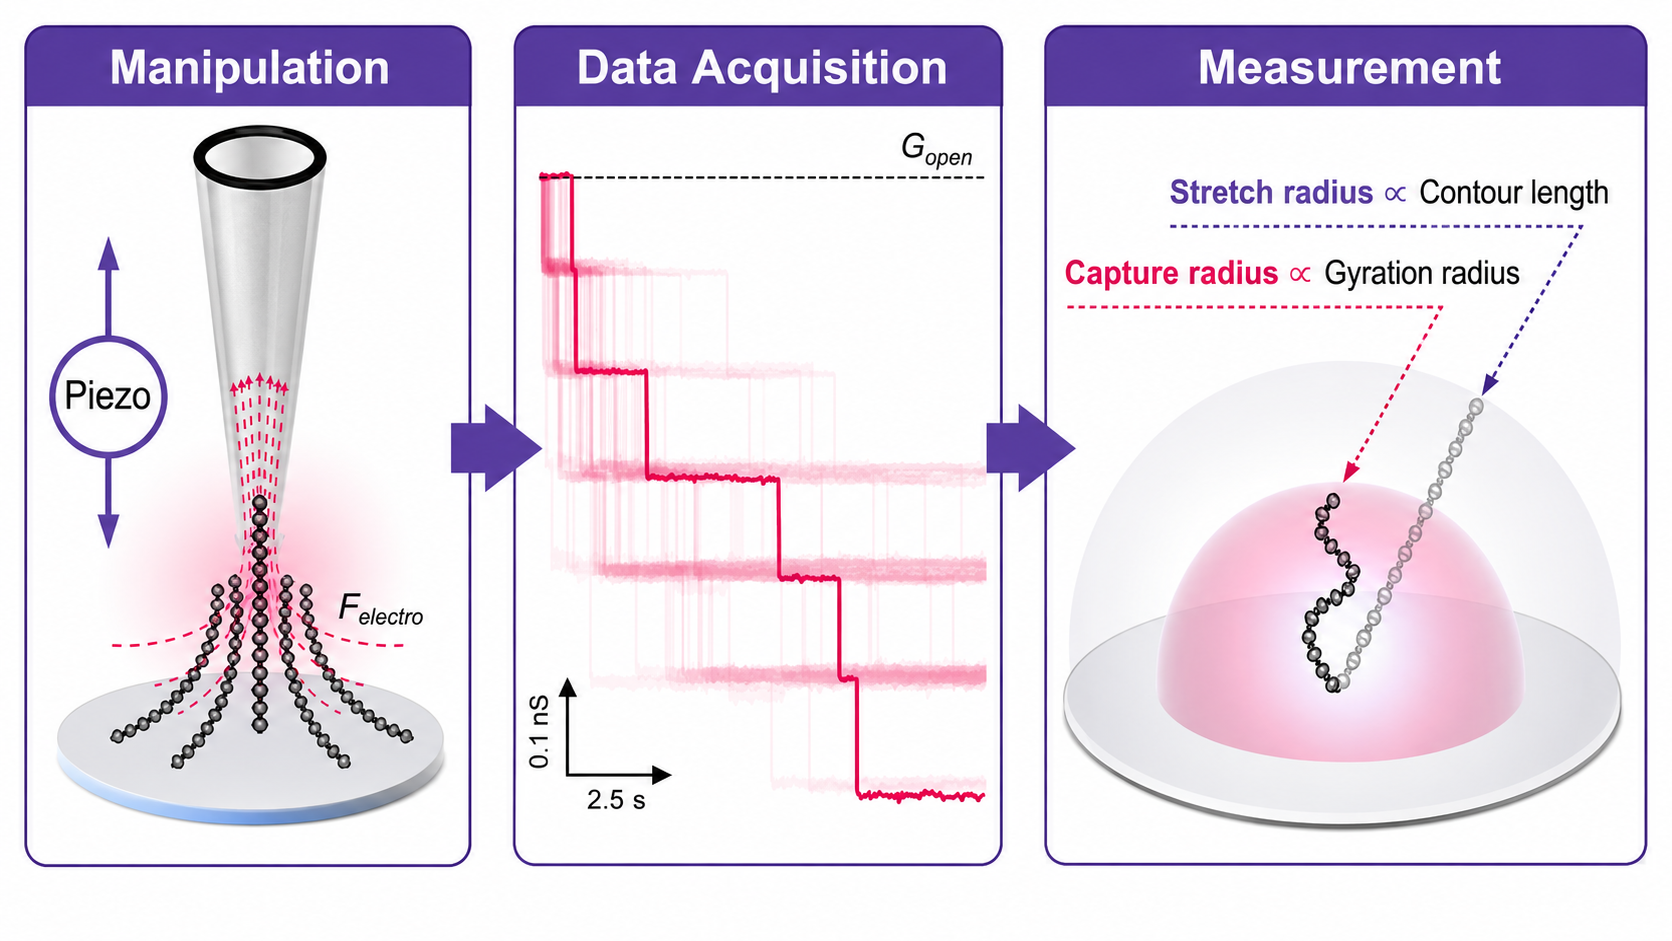
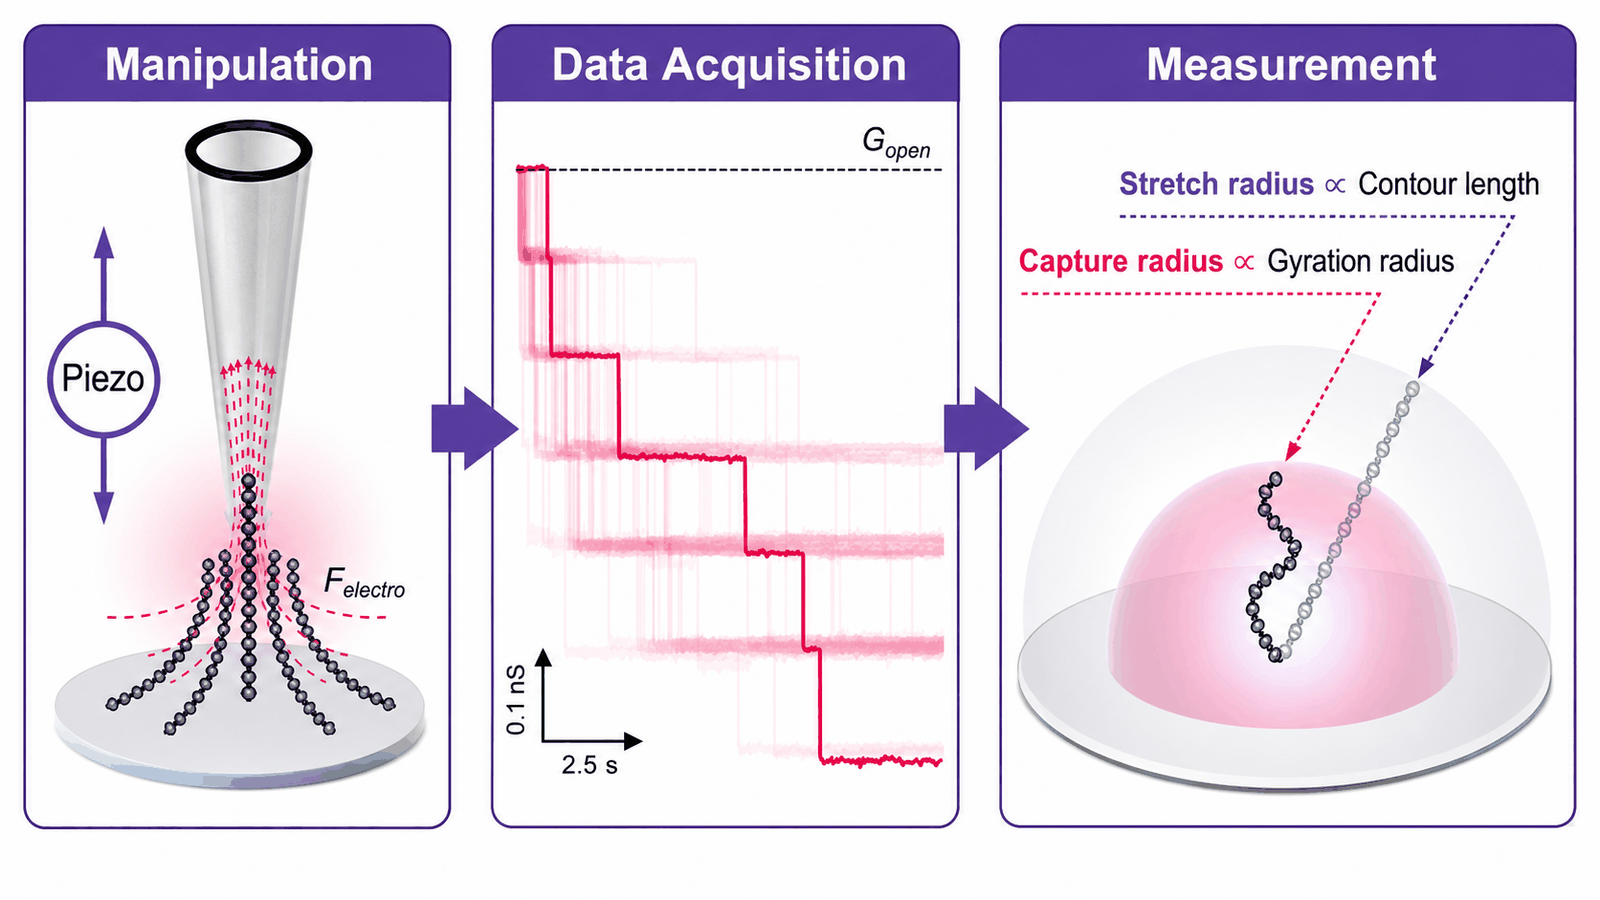
Optimize publication thumbnails

diff --git a/publications.html b/publications.html
@@ -53,7 +53,7 @@
           <li>Yun-Long Chen#, Chen-Chen Zheng#, Yan Zhang*, Zhi-Jie Tan*, and <strong>Xing-Hua Zhang*</strong>, "Multivalent cations stabilize DNA duplexes beyond charge neutralization", <em>Chemical Science</em>, <a class="text-link" href="https://doi.org/10.1039/D6SC03808E">https://doi.org/10.1039/D6SC03808E</a>
             <img src="assets/minor-groove-clamping-thumbnail-20260528.png?v=20260528-3papers" alt="Multivalent cations stabilize DNA duplexes beyond charge neutralization" style="width:560px;max-width:100%;height:auto;display:block;margin:8px 0;"></li>
           <li>Chen Zhang#, Hai-Long Dong#, Jia-Hao Zhang, Liang Dai, Yan Zhang*, Zhi-Jie Tan*, and <strong>Xing-Hua Zhang*</strong>, "Local cation-clamping distorts and softens RNA duplex", <em>Communications Biology</em>, 9:308. <a class="text-link" href="papers/2026-communications-biology.pdf">Download PDF</a>
-            <img src="assets/local-cation-clamping-thumbnail-20260528.png?v=20260528-3papers" alt="Local cation-clamping distorts and softens RNA duplex" style="width:560px;max-width:100%;height:auto;display:block;margin:8px 0;"></li>
+            <img src="assets/local-cation-clamping-thumbnail-20260528.png?v=20260907-optimized" alt="Local cation-clamping distorts and softens RNA duplex" style="width:560px;max-width:100%;height:auto;display:block;margin:8px 0;"></li>
           <li>Chen-Chen Zheng#, Yun-Long Chen#, Hai-Long Dong, Liang Dai, <strong>Xing-Hua Zhang*</strong>, Zhi-Jie Tan*, "Low-polar solvent strikingly stiffens double-stranded RNA and reverses its twist-stretch coupling", <em>Biophysical Journal</em>, 125(4): 982-994 (2026). <a class="text-link" href="assets/2026-biophysical-journal-low-polar-rna.pdf">Download PDF</a></li>
         </ol>
       </div>
@@ -66,7 +66,7 @@
           <li>Hongwei Zuo#, Fujia Tian#, Chen Zhang#, Qiyuan Qiu#, Yujie Zheng, Hao He, Jiahao Zhang, <strong>Xing-Hua Zhang*</strong> and Liang Dai*, "A Universal Entropic Pulling Force Caused by Binding", <em>Nature Communications</em>, 16:9604. <a class="text-link" href="papers/2025-nature-communications-entropic-pulling.pdf">Download PDF</a>
             <img src="assets/publication-thumbnail-a-universal-entropic-pulling-force-caused-by.png?v=20260528-rest" alt="A Universal Entropic Pulling Force Caused by Binding" style="width:560px;max-width:100%;height:auto;display:block;margin:8px 0;"></li>
           <li>Xiao-Cong Zhao#, Bin Wu#, Ya-Jun Yang#, Ying Li#, Qi-Yuan Qiu#, Liu Wang, Ya-Peng Xu, Han Gong, Lun Song, Xue-Jie Wang, Jing-Yao Shi, Xue-Feng Chen, Shao-Ran Zhang, Qi Zong, Liang Dai, Shi-Shen Du*, Yan Zhang*, Wen-Qiang Wu*, and <strong>Xing-Hua Zhang*</strong>, "N6-methyladenine modification of DNA enhances RecA-mediated homologous recombination", <em>PNAS</em>, 122(34): e2508652. <a class="text-link" href="papers/2025-pnas-6ma-reca.pdf">Download PDF</a>
-            <img src="assets/publication-thumbnail-n6-methyladenine-modification-of-dna-enhances-reca.png?v=20260528-rest" alt="N6-methyladenine modification of DNA enhances RecA-mediated homologous recombination" style="width:560px;max-width:100%;height:auto;display:block;margin:8px 0;"></li>
+            <img src="assets/publication-thumbnail-n6-methyladenine-modification-of-dna-enhances-reca.png?v=20260907-optimized" alt="N6-methyladenine modification of DNA enhances RecA-mediated homologous recombination" style="width:560px;max-width:100%;height:auto;display:block;margin:8px 0;"></li>
           <li>Yun-Long Chen#, Chen-Chen Zheng#, Fu-Jia Tian#, Tai-Lang Yin and <strong>Xing-Hua Zhang*</strong>, "Stretching a single sugar chain", <em>Carbohydrate Polymers</em>, 369:124268. <a class="text-link" href="papers/2025-carbohydrate-polymers.pdf">Download PDF</a>
             <img src="assets/publication-thumbnail-stretching-a-single-sugar-chain.png?v=20260528-rest" alt="Stretching a single sugar chain" style="width:560px;max-width:100%;height:auto;display:block;margin:8px 0;"></li>
           <li>Wei Wei#, Fu-Jia Tian#, Zi-Xiu Chen#, Yan Zhang*, Yue-Ming Zhai*, Liang Dai* and <strong>Xing-Hua Zhang*</strong>, "Charge Inversion of Single-Stranded DNA under High-Concentration Monovalent Salts", <em>Macromolecules</em>, 58(23):12882-12892. <a class="text-link" href="papers/2025-macromolecules.pdf">Download PDF</a>
@@ -83,7 +83,7 @@
         <h3>2024</h3>
         <ol class="publication-list" start="18">
           <li>Yuru Hu#, Hongyun Li#*, Chen Zhang#, Jingjing Feng#, Wenxu Wang, Wei Chen, Miao Yu, <strong>Xinghua Zhang*</strong>, Zheng Liu*, "DNA-based ForceChrono Probes for Deciphering Single-Molecule Force Dynamics in Living Cells", <em>Cell</em>, 187(13):1-15. <a class="text-link" href="papers/2024-cell.pdf">Download PDF</a>
-            <img src="assets/publication-thumbnail-dna-based-forcechrono-probes-for-deciphering-single.png?v=20260528-rest" alt="DNA-based ForceChrono Probes for Deciphering Single-Molecule Force Dynamics in Living Cells" style="width:560px;max-width:100%;height:auto;display:block;margin:8px 0;"></li>
+            <img src="assets/publication-thumbnail-dna-based-forcechrono-probes-for-deciphering-single.png?v=20260907-optimized" alt="DNA-based ForceChrono Probes for Deciphering Single-Molecule Force Dynamics in Living Cells" style="width:560px;max-width:100%;height:auto;display:block;margin:8px 0;"></li>
           <li>Er-Chi Zhou#, Hang Fu#, Hao-Ze Wang, Ya-Jun Yang, <strong>Xing-Hua Zhang*</strong>, "Converting multiple to single DNA-tethered beads and removing one-end-tethered only DNA in high-throughput stretching", <em>ACS Sensors</em>, 9(11):6292-6298.
             <img src="assets/publication-thumbnail-converting-multiple-to-single-dna-tethered-beads.png?v=20260528-rest" alt="Converting multiple to single DNA-tethered beads and removing one-end-tethered only DNA in high-throughput stretching" style="width:560px;max-width:100%;height:auto;display:block;margin:8px 0;"></li>
           <li>Yun-Long Chen* and <strong>Xing-Hua Zhang*</strong>, "Effects of imidazolium-based ionic liquids on the elasticity of DNA revealed by magnetic tweezers", <em>Journal of Molecular Liquids</em>, 410:125646. <a class="text-link" href="papers/2024-journal-molecular-liquids-ionic-liquids.pdf">Download PDF</a></li>
@@ -93,7 +93,7 @@
             <img src="assets/publication-thumbnail-the-origin-of-different-bending-stiffness-between.jpeg?v=20260528-rest" alt="The origin of different bending stiffness between double-stranded RNA and DNA revealed by magnetic tweezers and simulations" style="width:560px;max-width:100%;height:auto;display:block;margin:8px 0;"></li>
           <li>Chen-Chen Zheng#, Yun-Long Chen#, Hai-Long Dong, <strong>Xing-Hua Zhang*</strong>, Zhi-Jie Tan*, "Effect of ethanol on the elasticities of double-stranded RNA and DNA revealed by magnetic tweezers and simulations", <em>The Journal of Chemical Physics</em>, 161:075101. <a class="text-link" href="papers/2024-jcp-ethanol.pdf">Download PDF</a></li>
           <li>Bohua Yin, Shaoxi Fang, Bin Wu, Wenhao Ma, Daming Zhou, Yajie Yin, Rong Tian, Shixuan He, Wanyi Xie*, <strong>Xinghua Zhang*</strong>, Zuobin Wang*, Deqiang Wang*, "Directly Characterizing the Capture Radius of Tethered Double-Stranded DNA by Single-Molecule Nanopipette Manipulation", <em>ACS Nano</em>, 18(40):27962-27973. <a class="text-link" href="papers/2024-acs-nano-nanopipette.pdf">Download PDF</a>
-            <img src="assets/publication-thumbnail-nanopipette-capture-radius-20260528.png?v=20260528-nanopipette" alt="Directly Characterizing the Capture Radius of Tethered Double-Stranded DNA by Single-Molecule Nanopipette Manipulation" style="width:560px;max-width:100%;height:auto;display:block;margin:8px 0;"></li>
+            <img src="assets/publication-thumbnail-nanopipette-capture-radius-20260528.png?v=20260907-optimized" alt="Directly Characterizing the Capture Radius of Tethered Double-Stranded DNA by Single-Molecule Nanopipette Manipulation" style="width:560px;max-width:100%;height:auto;display:block;margin:8px 0;"></li>
         </ol>
       </div>
 
@@ -101,7 +101,7 @@
         <h3>2023</h3>
         <ol class="publication-list" start="25">
           <li>Ya-Jun Yang, Hang Fu, Xiao-Lu Li, Hong-Yu Yang, Er-Chi Zhou, Cheng-Yu Xie, Shu-Wen Wu, Fan He*, Yan Zhang* and <strong>Xing-Hua Zhang*</strong>, "A mutation-sensitive, multiplexed and amplification-free detection of nucleic acids by stretching single-molecule tandem hairpin probes", <em>Nucleic Acids Research</em>, 51(17):e90. <a class="text-link" href="papers/2023-nar-tandem-hairpin.pdf">Download PDF</a>
-            <img src="assets/publication-thumbnail-a-mutation-sensitive-multiplexed-and-amplification-free.png?v=20260528-rest" alt="A mutation-sensitive, multiplexed and amplification-free detection of nucleic acids by stretching single-molecule tandem hairpin probes" style="width:560px;max-width:100%;height:auto;display:block;margin:8px 0;"></li>
+            <img src="assets/publication-thumbnail-a-mutation-sensitive-multiplexed-and-amplification-free.png?v=20260907-optimized" alt="A mutation-sensitive, multiplexed and amplification-free detection of nucleic acids by stretching single-molecule tandem hairpin probes" style="width:560px;max-width:100%;height:auto;display:block;margin:8px 0;"></li>
           <li>Fu-Jia Tian#, Chen Zhang#, Erchi Zhou#, Hai-Long Dong, Zhi-Jie Tan, <strong>Xing-Hua Zhang*</strong> and Liang Dai*, "Universality in RNA and DNA deformations induced by salt, temperature change, stretching force, and protein binding", <em>PNAS</em>, 120(20):e2218425120. <a class="text-link" href="papers/2023-pnas-universality.pdf">Download PDF</a>
             <img src="assets/publication-thumbnail-universality-in-rna-and-dna-deformations-induced.png?v=20260528-rest" alt="Universality in RNA and DNA deformations induced by salt, temperature change, stretching force, and protein binding" style="width:560px;max-width:100%;height:auto;display:block;margin:8px 0;"></li>
         </ol>
@@ -111,9 +111,9 @@
         <h3>2022</h3>
         <ol class="publication-list" start="27">
           <li>Xiao-Cong Zhao#, Hai-Long Dong#, Xiao-Lu Li, Hong-Yu Yang, Xue-Feng Chen, Liang Dai, Wen-Qiang Wu, Zhi-Jie Tan* and <strong>Xing-Hua Zhang*</strong>, "5-methyl-cytosine stabilizes DNA but hinders DNA hybridization revealed by magnetic tweezers and simulations", <em>Nucleic Acids Research</em>, 50(21):12344-12354. <a class="text-link" href="papers/2022-nar-5mc.pdf">Download PDF</a>
-            <img src="assets/publication-thumbnail-5-methyl-cytosine-stabilizes-dna-but-hinders.png?v=20260528-rest" alt="5-methyl-cytosine stabilizes DNA but hinders DNA hybridization revealed by magnetic tweezers and simulations" style="width:560px;max-width:100%;height:auto;display:block;margin:8px 0;"></li>
+            <img src="assets/publication-thumbnail-5-methyl-cytosine-stabilizes-dna-but-hinders.png?v=20260907-optimized" alt="5-methyl-cytosine stabilizes DNA but hinders DNA hybridization revealed by magnetic tweezers and simulations" style="width:560px;max-width:100%;height:auto;display:block;margin:8px 0;"></li>
           <li>Chen Zhang#, Fujia Tian#, Ying Lu, Bing Yuan, Zhi-Jie Tan, <strong>Xing-Hua Zhang*</strong> and Liang Dai*, "Twist-diameter coupling drives DNA twist changes with salt and temperature", <em>Science Advances</em>, 8(12):abn1384. <a class="text-link" href="papers/2022-science-advances-twist-diameter.pdf">Download PDF</a>
-            <img src="assets/publication-thumbnail-twist-diameter-coupling-drives-dna-twist-changes.png?v=20260528-rest" alt="Twist-diameter coupling drives DNA twist changes with salt and temperature" style="width:560px;max-width:100%;height:auto;display:block;margin:8px 0;"></li>
+            <img src="assets/publication-thumbnail-twist-diameter-coupling-drives-dna-twist-changes.png?v=20260907-optimized" alt="Twist-diameter coupling drives DNA twist changes with salt and temperature" style="width:560px;max-width:100%;height:auto;display:block;margin:8px 0;"></li>
           <li>Xiao-Wei Qiang#, Chen Zhang#, Hai-Long Dong#, Fu-Jia Tian, Hang Fu, Ya-Jun Yang, Liang Dai, <strong>Xing-Hua Zhang*</strong>, Zhi-Jie Tan*, "Multivalent cations reverse the twist-stretch coupling of RNA", <em>Physical Review Letters</em>, 126:108103. <a class="text-link" href="papers/2022-prl-multivalent-cations-rna.pdf">Download PDF</a>
             <img src="assets/publication-thumbnail-multivalent-cations-reverse-the-twist-stretch-coupling.png?v=20260528-rest" alt="Multivalent cations reverse the twist-stretch coupling of RNA" style="width:560px;max-width:100%;height:auto;display:block;margin:8px 0;"></li>
         </ol>
@@ -123,7 +123,7 @@
         <h3>2021</h3>
         <ol class="publication-list" start="30">
           <li>Xuejie Wang#, Yang Dong#, Xiaocong Zhao#, Jinbao Li, Jordan Lee, Zhenxin Yan, Shuangshuang Yang, Wenqiang Wu, Ximiao Hou, Guangxue Liu, Yueyue Zhang, Lun Song, Gang Cai, Qing Li, Grzegorz Ira, <strong>Xinghua Zhang*</strong>, Xuefeng Chen*, "Rtt105 promotes high-fidelity DNA replication and repair by regulating the single-stranded DNA binding factor RPA", <em>PNAS</em>, 118(25):e2106393118. <a class="text-link" href="papers/2021-pnas-rtt105.pdf">Download PDF</a>
-            <img src="assets/publication-thumbnail-rtt105-promotes-high-fidelity-dna-replication-and.png?v=20260528-rest" alt="Rtt105 promotes high-fidelity DNA replication and repair by regulating the single-stranded DNA binding factor RPA" style="width:560px;max-width:100%;height:auto;display:block;margin:8px 0;"></li>
+            <img src="assets/publication-thumbnail-rtt105-promotes-high-fidelity-dna-replication-and.png?v=20260907-optimized" alt="Rtt105 promotes high-fidelity DNA replication and repair by regulating the single-stranded DNA binding factor RPA" style="width:560px;max-width:100%;height:auto;display:block;margin:8px 0;"></li>
         </ol>
       </div>
 
@@ -131,9 +131,9 @@
         <h3>2020</h3>
         <ol class="publication-list" start="31">
           <li>Ya-Jun Yang, Hai-Long Dong, Xiao-Wei Qiang, Hang Fu, Er-Chi Zhou, Chen Zhang, Lei Yin, Xue-Feng Chen, Fu-Chao Jia, Liang Dai, Zhi-Jie Tan, and <strong>Xing-Hua Zhang*</strong>, "Cytosine methylation enhances DNA condensation revealed by equilibrium measurements using magnetic tweezers", <em>Journal of the American Chemical Society</em>, 142(20):9203-9209. <a class="text-link" href="papers/2020-jacs-cytosine-methylation.pdf">Download PDF</a>
-            <img src="assets/publication-thumbnail-cytosine-methylation-enhances-dna-condensation-revealed-by.png?v=20260528-rest" alt="Cytosine methylation enhances DNA condensation revealed by equilibrium measurements using magnetic tweezers" style="width:560px;max-width:100%;height:auto;display:block;margin:8px 0;"></li>
+            <img src="assets/publication-thumbnail-cytosine-methylation-enhances-dna-condensation-revealed-by.png?v=20260907-optimized" alt="Cytosine methylation enhances DNA condensation revealed by equilibrium measurements using magnetic tweezers" style="width:560px;max-width:100%;height:auto;display:block;margin:8px 0;"></li>
           <li>Hang Fu#, Chen Zhang#, Xiao-Wei Qiang#, Ya-Jun Yang, Zhi-Jie Tan* and <strong>Xing-Hua Zhang*</strong>, "Opposite effects of high-valent cations on the elasticities of DNA and RNA duplexes revealed by magnetic tweezers", <em>Physical Review Letters</em>, 124(5):058101. <a class="text-link" href="papers/2020-prl-high-valent-cations.pdf">Download PDF</a>
-            <img src="assets/publication-thumbnail-opposite-effects-of-high-valent-cations-on.png?v=20260528-rest" alt="Opposite effects of high-valent cations on the elasticities of DNA and RNA duplexes revealed by magnetic tweezers" style="width:560px;max-width:100%;height:auto;display:block;margin:8px 0;"></li>
+            <img src="assets/publication-thumbnail-opposite-effects-of-high-valent-cations-on.png?v=20260907-optimized" alt="Opposite effects of high-valent cations on the elasticities of DNA and RNA duplexes revealed by magnetic tweezers" style="width:560px;max-width:100%;height:auto;display:block;margin:8px 0;"></li>
         </ol>
       </div>
 
@@ -141,7 +141,7 @@
         <h3>2019</h3>
         <ol class="publication-list" start="33">
           <li>Chen Zhang#, Hang Fu#, Yajun Yang#, Erchi Zhou, Zhijie Tan, Huijuan You, <strong>Xinghua Zhang*</strong>, "The Mechanical Properties of RNA-DNA Hybrid Duplex Stretched by Magnetic Tweezers", <em>Biophysical Journal</em>, 116(2):196-204. Selected as the best paper of 2019 in the supplied materials. <a class="text-link" href="papers/2019-biophysical-journal-rna-dna-hybrid.pdf">Download PDF</a>
-            <img src="assets/publication-thumbnail-the-mechanical-properties-of-rna-dna-hybrid.png?v=20260528-rest" alt="The Mechanical Properties of RNA-DNA Hybrid Duplex Stretched by Magnetic Tweezers" style="width:560px;max-width:100%;height:auto;display:block;margin:8px 0;"></li>
+            <img src="assets/publication-thumbnail-the-mechanical-properties-of-rna-dna-hybrid.png?v=20260907-optimized" alt="The Mechanical Properties of RNA-DNA Hybrid Duplex Stretched by Magnetic Tweezers" style="width:560px;max-width:100%;height:auto;display:block;margin:8px 0;"></li>
           <li>Ya-Jun Yang#, Lun Song, Xiao-Cong Zhao, Chen Zhang, Wen-Qiang Wu, Hui-Juan You, Hang Fu, Er-Chi Zhou, <strong>Xing-Hua Zhang*</strong>, "A Universal Assay for Making DNA, RNA, and RNA-DNA Hybrid Configurations for Single-Molecule Manipulation in Two or Three Steps without Ligation", <em>ACS Synthetic Biology</em>, 8(7):1663-1672. <a class="text-link" href="papers/2019-acs-synthetic-biology.pdf">Download PDF</a>
             <img src="assets/publication-thumbnail-a-universal-assay-for-making-dna-rna.jpg?v=20260528-rest" alt="A Universal Assay for Making DNA, RNA, and RNA-DNA Hybrid Configurations for Single-Molecule Manipulation in Two or Three Steps without Ligation" style="width:560px;max-width:100%;height:auto;display:block;margin:8px 0;"></li>
           <li>Ju-Hui Liu#, Kun Xi#, Xi Zhang, Lei Bao, <strong>Xing-Hua Zhang*</strong>, Zhi-Jie Tan*, "Structural Flexibility of DNA-RNA Hybrid Duplex: Stretching and Twist-Stretch Coupling", <em>Biophysical Journal</em>, 117(1):74-86. <a class="text-link" href="papers/2019-biophysical-journal-structural-flexibility.pdf">Download PDF</a></li>
@@ -167,7 +167,7 @@
         <h3>2013</h3>
         <ol class="publication-list" start="38">
           <li><strong>Xinghua Zhang</strong>, Hu Chen, Shimin Le, Ioulia Rouzina, Patrick S. Doyle*, and Jie Yan*, "Revealing the competition between peeled ssDNA, melting bubbles and S-DNA during DNA overstretching by single-molecule calorimetry", <em>PNAS</em>, 110(10):3865-3870. <a class="text-link" href="papers/2013-pnas-dna-overstretching-calorimetry.pdf">Download PDF</a>
-            <img src="assets/publication-thumbnail-revealing-the-competition-between-peeled-ssdna-melting.png?v=20260528-rest" alt="Revealing the competition between peeled ssDNA, melting bubbles and S-DNA during DNA overstretching by single-molecule calorimetry" style="width:560px;max-width:100%;height:auto;display:block;margin:8px 0;"></li>
+            <img src="assets/publication-thumbnail-revealing-the-competition-between-peeled-ssdna-melting.png?v=20260907-optimized" alt="Revealing the competition between peeled ssDNA, melting bubbles and S-DNA during DNA overstretching by single-molecule calorimetry" style="width:560px;max-width:100%;height:auto;display:block;margin:8px 0;"></li>
         </ol>
       </div>
       <div class="year-block">
